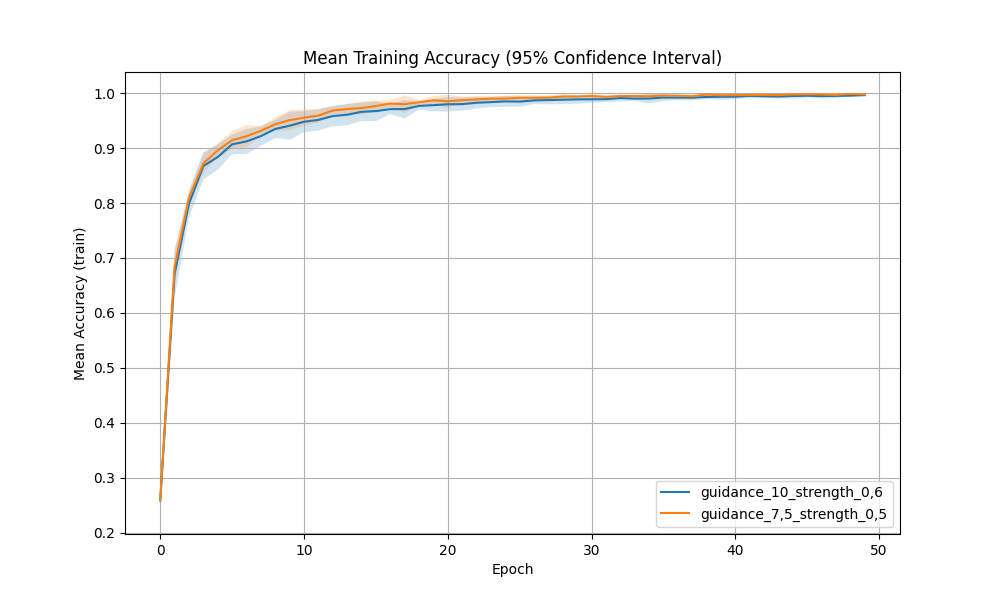
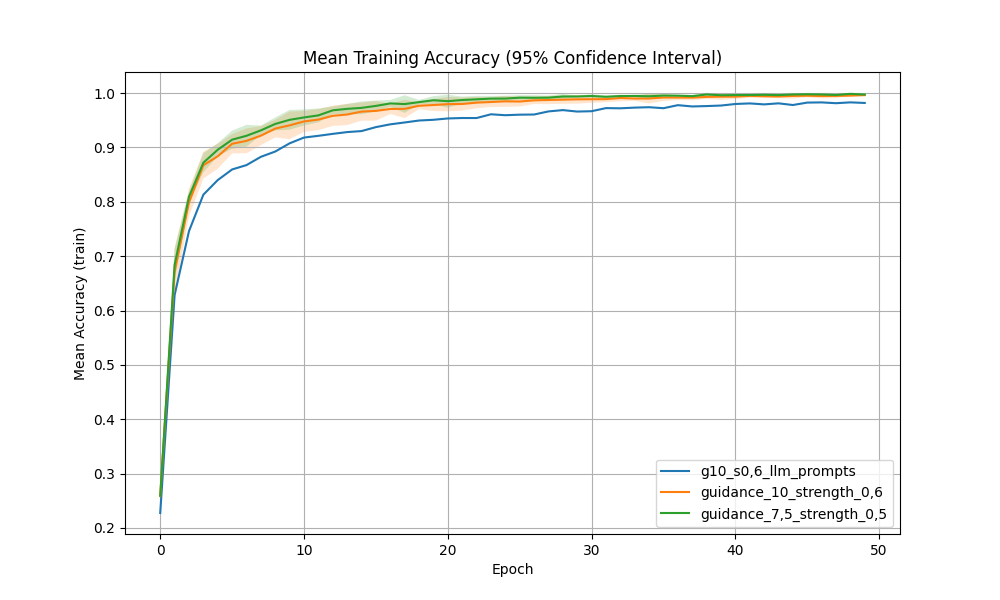
LLM workes. Added set_prompt method for Compose classes

Changed region(s): [[0.093, 0.15, 0.899, 0.84], [0.093, 0.87, 0.899, 0.9]]

diff --git a/semantic_aug/augmentations/compose.py b/semantic_aug/augmentations/compose.py
@@ -1,4 +1,5 @@
 from semantic_aug.generative_augmentation import GenerativeAugmentation
+from semantic_aug.augmentations.textual_inversion import TextualInversion
 from diffusers import StableDiffusionImg2ImgPipeline
 from diffusers import StableDiffusionInpaintPipeline
 from diffusers.utils import logging
@@ -34,6 +35,15 @@ class ComposeSequential(GenerativeAugmentation):
 
         return image, label
 
+    def set_augs_prompt(self, prompt: str):
+        for aug in self.augs:
+            if isinstance(aug, TextualInversion):
+                aug.set_prompt(prompt)
+            else:
+                raise ValueError("No TextualInversion instance found in augs. This is mandetory until csv prompts is "
+                                 "implemented in other aug variants")
+
+
 
 class ComposeParallel(GenerativeAugmentation):
 
@@ -42,7 +52,7 @@ class ComposeParallel(GenerativeAugmentation):
 
         super(ComposeParallel, self).__init__()
 
-        self.augs = augs  # MR: comprises TextualInverstion()
+        self.augs = augs
         self.probs = probs if probs is not None \
             else [1.0 / len(augs) for _ in augs]
 
@@ -54,3 +64,12 @@ class ComposeParallel(GenerativeAugmentation):
         image, label = self.augs[idx](image, label, metadata)
 
         return image, label
+
+    def set_augs_prompt(self, prompt: str):
+        for aug in self.augs:
+            if isinstance(aug, TextualInversion):
+                aug.set_prompt(prompt)
+            else:
+                raise ValueError("No TextualInversion instance found in augs. This is mandetory until csv prompts is "
+                                 "implemented in other aug variants")
+

diff --git a/semantic_aug/few_shot_dataset.py b/semantic_aug/few_shot_dataset.py
@@ -104,10 +104,13 @@ class FewShotDataset(Dataset):
             if self.use_llm_prompt:
                 # This chooses a prompt out of the list according to the occurrence of the class name
                 prompt_idx = class_occur[class_name] % len(prompts_dict[class_name])
-                self.generative_aug.set_prompt(prompts_dict[class_name][prompt_idx])
+                # MR: generative_aug must have a TextualInversion instance!!
+                self.generative_aug.set_augs_prompt(prompts_dict[class_name][prompt_idx])
             else:
                 self.generative_aug.set_prompt(DEFAULT_PROMPT)
 
+            print(f"prompt: {self.generative_aug.augs[0].prompt} | has type: {type(self.generative_aug.augs[0].prompt)}")
+            print(f"default prompt: {DEFAULT_PROMPT} | has type: {type(DEFAULT_PROMPT)}")
             image, label = self.generative_aug(
                 image, label, metadata)
 

diff --git a/semantic_aug/augmentations/textual_inversion.py b/semantic_aug/augmentations/textual_inversion.py
@@ -120,6 +120,7 @@ class TextualInversion(GenerativeAugmentation):
 
         canvas = image.resize((512, 512), Image.BILINEAR)
         name = self.format_name(metadata.get("name", ""))
+        print(f"self.prompt in text_inv: {self.prompt}  has type: {type(self.prompt)}")
         prompt = self.prompt.format(name=name)
 
         if self.mask: assert "mask" in metadata, \

diff --git a/train_classifier.py b/train_classifier.py
@@ -27,7 +27,6 @@ import pandas as pd
 import numpy as np
 import random
 import os
-from generate_prompts import read_prompts_from_csv
 
 try: 
     from cutmix.cutmix import CutMix
